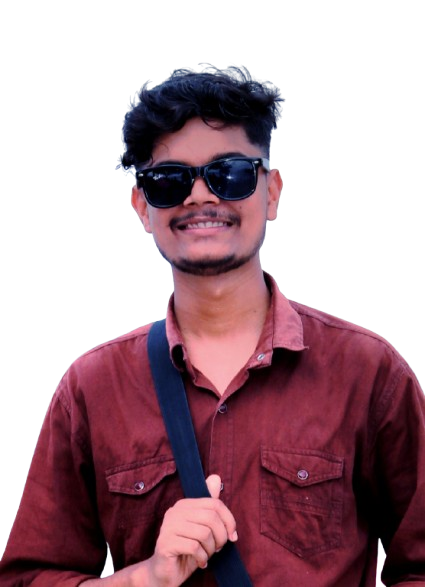
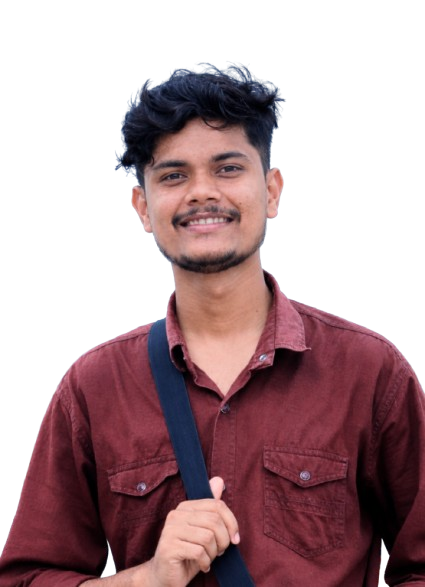
changes

diff --git a/src/components/Projects.jsx b/src/components/Projects.jsx
@@ -1,5 +1,9 @@
 import React, { useRef } from 'react'
 import project1 from '../assets/project1.png';
+import project2 from '../assets/project2.png';
+import project3 from '../assets/project3.png';
+import project4 from '../assets/project4.png';
+import project5 from '../assets/project5.png';
 import { ChevronLeft, ChevronRight, ExternalLink } from 'lucide-react';
 import { FaGithub } from 'react-icons/fa';
 
@@ -10,44 +14,57 @@ export default function Projects() {
         {
             id: 1,
             image: project1,
-            title: '3D Portfolio Website',
-            desc: 'Lorem ipsum dolor sit amet consectetur adipisicing elit. Minus doloribus rem voluptates nam recusandae cum unde,',
-            tags: ['React Js', 'Tailwind CSS', 'Framer Motion']
+            title: 'Hospital Management Website',
+            desc: "A Hospital Management System (HMS) is a centralized digital platform that integrates a hospital's clinical, administrative, financial, and operational functions into a single system",
+            tags: ['React Js', 'Tailwind CSS', 'Redus Toolkits', 'Node Js', 'Express Js', 'MongoDB', 'JavaScript'],
+            code: 'https://github.com/loyarabhishek92/Hospital',
+            demo: 'https://hospital-olive-nu.vercel.app/',
         },
         {
             id: 2,
-            image: project1,
-            title: '3D Portfolio Website',
-            desc: 'Lorem ipsum dolor sit amet consectetur adipisicing elit. Minus doloribus rem voluptates nam recusandae cum unde,',
-            tags: ['React Js', 'Tailwind CSS', 'Framer Motion']
-        },
-        {
-            id: 3,
-            image: project1,
-            title: '3D Portfolio Website',
-            desc: 'Lorem ipsum dolor sit amet consectetur adipisicing elit. Minus doloribus rem voluptates nam recusandae cum unde,',
-            tags: ['React Js', 'Tailwind CSS', 'Framer Motion']
-        },
-        {
-            id: 4,
-            image: project1,
-            title: '3D Portfolio Website',
-            desc: 'Lorem ipsum dolor sit amet consectetur adipisicing elit. Minus doloribus rem voluptates nam recusandae cum unde,',
-            tags: ['React Js', 'Tailwind CSS', 'Framer Motion']
+            image: project2,
+            title: 'E-Commerce Website',
+            desc: 'E-commerce (electronic commerce) is the buying and selling of goods, services, and data over the internet using digital devices.',
+            tags: ['React Js', 'Tailwind CSS', 'Redus Toolkits', 'Node Js', 'Express Js', 'MongoDB', 'JavaScript'],
+            code: 'https://github.com/loyarabhishek92/E-Commerce',
+            demo: 'https://e-commerce-cyan-two-40.vercel.app/',
         },
         {
             id: 5,
-            image: project1,
-            title: '3D Portfolio Website',
-            desc: 'Lorem ipsum dolor sit amet consectetur adipisicing elit. Minus doloribus rem voluptates nam recusandae cum unde,',
-            tags: ['React Js', 'Tailwind CSS', 'Framer Motion']
+            image: project5,
+            title: 'MealDB Colon Website',
+            desc: "Welcome to TheMealDB: An open, crowd-sourced database of recipes from around the world. We offer a free recipe API for anyone wanting to use it, with additional premium features if required.",
+            tags: ['React Js', 'Tailwind CSS', 'Framer Motion'],
+            code: 'https://github.com/loyarabhishek92/MealDBApp',
+            demo: 'https://meal-db-app-eight.vercel.app/',
         },
+        {
+            id: 3,
+            image: project3,
+            title: 'TODO App Website',
+            desc: 'A to-do list app is a digital tool that helps you organize daily tasks, set deadlines, and track productivity across your devices.',
+            tags: ['React Js', 'Tailwind CSS', 'Formik'],
+            code: 'https://github.com/loyarabhishek92/ToDoApp',
+            demo: 'https://to-do-app-puce-ten.vercel.app/',
+        },
+        {
+            id: 4,
+            image: project4,
+            title: 'Colon Website',
+            desc: 'Lorem ipsum dolor sit amet consectetur adipisicing elit. Minus doloribus rem voluptates nam recusandae cum unde,',
+            tags: ['HTML5', 'CSS3'],
+            code: 'https://github.com/loyarabhishek92/Projectforlive',
+            demo: 'https://colon-sand.vercel.app/',
+        },
+
         {
             id: 6,
             image: project1,
-            title: '3D Portfolio Website',
-            desc: 'Lorem ipsum dolor sit amet consectetur adipisicing elit. Minus doloribus rem voluptates nam recusandae cum unde,',
-            tags: ['React Js', 'Tailwind CSS', 'Framer Motion']
+           title: 'Hospital Management Website',
+            desc: "A Hospital Management System (HMS) is a centralized digital platform that integrates a hospital's clinical, administrative, financial, and operational functions into a single system",
+            tags: ['React Js', 'Tailwind CSS', 'Redus Toolkits', 'Node Js', 'Express Js', 'MongoDB', 'JavaScript'],
+            code: 'https://github.com/loyarabhishek92/Hospital',
+            demo: 'https://hospital-olive-nu.vercel.app/',
         },
     ]
     const infiniteProjects = [...projectsData, ...projectsData, ...projectsData];
@@ -87,72 +104,72 @@ export default function Projects() {
                     </div>
                     <div className='flex gap-4'>
                         <button
-                        onClick={() => handleScroll('left')}
-                        className='p-3 rounded-full border-2 transition-all duration-300 dark:border-zinc-200 border-gray-800 dark:text-white text-gray-800 hover:border-red-500 dark:hover:border-red-500 hover:bg-red-500/10 dark:hover:bg-red-500/10'>
+                            onClick={() => handleScroll('left')}
+                            className='p-3 rounded-full border-2 transition-all duration-300 dark:border-zinc-200 border-gray-800 dark:text-white text-gray-800 hover:border-red-500 dark:hover:border-red-500 hover:bg-red-500/10 dark:hover:bg-red-500/10'>
                             <ChevronLeft size={22} />
                         </button>
                         <button
-                        onClick={() => handleScroll('right')}
-                        className='p-3 rounded-full border-2 transition-all duration-300 dark:border-zinc-200 border-gray-800 dark:text-white text-gray-800 hover:border-red-500 dark:hover:border-red-500 hover:bg-red-500/10 dark:hover:bg-red-500/10'>
+                            onClick={() => handleScroll('right')}
+                            className='p-3 rounded-full border-2 transition-all duration-300 dark:border-zinc-200 border-gray-800 dark:text-white text-gray-800 hover:border-red-500 dark:hover:border-red-500 hover:bg-red-500/10 dark:hover:bg-red-500/10'>
                             <ChevronRight size={22} />
                         </button>
                     </div>
                 </div>
                 <div
-                ref={scrollRef}
-                className='flex gap-6 scrollbar-none snap-mandatory overflow-hidden w-full px-4'>
+                    ref={scrollRef}
+                    className='flex gap-6 scrollbar-none snap-mandatory overflow-hidden w-full px-4'>
                     {infiniteProjects.map((project, index) => (
                         <div
-                        key={`${project.id}-${index}`}
-                        className='w-full md:w-[calc(50%-12px)] lg:w-[calc(33.333%-16px)] shrink-0 snap-start group rounded-3xl overflow-hidden border-2 transition-all duration-300 dark:border-zinc-800/60 border-gray-100 dark:bg-zinc-900/40 bg-white hover:border-red-500/50 dark:hover:border-red-500/50 hover:shadow-[0_20px_40px_rgba(220,38,38,0.15)] flex flex-col'>
+                            key={`${project.id}-${index}`}
+                            className='w-full md:w-[calc(50%-12px)] lg:w-[calc(33.333%-16px)] shrink-0 snap-start group rounded-3xl overflow-hidden border-2 transition-all duration-300 dark:border-zinc-800/60 border-gray-100 dark:bg-zinc-900/40 bg-white hover:border-red-500/50 dark:hover:border-red-500/50 hover:shadow-[0_20px_40px_rgba(220,38,38,0.15)] flex flex-col'>
                             <div className='relative overflow-hidden aspect-video bg-gray-100 dark:bg-zinc-900'>
 
                                 <img src={project.image} alt={project.title} className='w-full h-full object-cover transition-transform duration-500 group-hover:scale-105' />
 
                                 <div className='absolute inset-0 bg-linear-to-t from-black/20 to-transparent opacity-0 group-hover:opacity-100 transition-opacity duration-300' />
-                                </div>
+                            </div>
 
-                                <div className='p-6 flex flex-col justify-between grow min-h-50'>
-                                    <div>
-                                        <h3 className='text-lg font-bold mb-2 dark:text-white text-gray-900 group-hover:text-red-500 dark:group-hover:text-red-400 transition-colors duration-300'>
-                                            {project.title}
-                                        </h3>
-                                        <p className='text-xs leading-relaxed mb-4 dark:text-gray-400 text-gray-600 line-clamp-2'>
-                                            {project.desc}
-                                        </p>
-                                    </div>
-                                    <div>
-                                        <div className='flex flex-wrap gap-1.5 mb-4'>
-                                            {project.tags.map((tag, i) => (
-                                                <span
+                            <div className='p-6 flex flex-col justify-between grow min-h-50'>
+                                <div>
+                                    <h3 className='text-lg font-bold mb-2 dark:text-white text-gray-900 group-hover:text-red-500 dark:group-hover:text-red-400 transition-colors duration-300'>
+                                        {project.title}
+                                    </h3>
+                                    <p className='text-xs leading-relaxed mb-4 dark:text-gray-400 text-gray-600 line-clamp-2'>
+                                        {project.desc}
+                                    </p>
+                                </div>
+                                <div>
+                                    <div className='flex flex-wrap gap-1.5 mb-4'>
+                                        {project.tags.map((tag, i) => (
+                                            <span
                                                 key={i}
                                                 className='text-[10px] font-medium px-2.5 py-0.5 rounded-full font-mono dark:bg-red-500/10 bg-red-500/5 dark:text-red-300 text-red-600'>
-                                                    {tag}
-                                                </span>
-                                            ))}
-                                        </div>
-                                        <div className='flex items-center gap-4 pt-2 border-t dark:border-zinc-800/80 border-gray-100'>
-                                        <a href="#"
-                                        target='_blank'
-                                        rel='noopener noreferrer'
-                                        className='inline-flex items-center gap-1.5 text-xs font-medium transition-colors duration-300 dark:text-gray-400 text-gray-600 dark:hover:text-white hover:text-black'>
+                                                {tag}
+                                            </span>
+                                        ))}
+                                    </div>
+                                    <div className='flex items-center gap-4 pt-2 border-t dark:border-zinc-800/80 border-gray-100'>
+                                        <a href={project.code}
+                                            target='_blank'
+                                            rel='noopener noreferrer'
+                                            className='inline-flex items-center gap-1.5 text-xs font-medium transition-colors duration-300 dark:text-gray-400 text-gray-600 dark:hover:text-white hover:text-black'>
                                             <FaGithub size={14} /> Code
                                         </a>
-                                         <a href="#"
-                                        target='_blank'
-                                        rel='noopener noreferrer'
-                                        className='inline-flex items-center gap-1.5 text-xs font-medium transition-colors duration-300 dark:text-gray-400 text-gray-600 dark:hover:text-white hover:text-black'>
+                                        <a href={project.demo}
+                                            target='_blank'
+                                            rel='noopener noreferrer'
+                                            className='inline-flex items-center gap-1.5 text-xs font-medium transition-colors duration-300 dark:text-gray-400 text-gray-600 dark:hover:text-white hover:text-black'>
                                             <ExternalLink size={14} /> Live Demo
                                         </a>
 
-                                        </div>
                                     </div>
-
                                 </div>
 
                             </div>
 
-                        
+                        </div>
+
+
                     ))}
 
                 </div>

diff --git a/src/components/Hero.jsx b/src/components/Hero.jsx
@@ -1,5 +1,5 @@
 import { FaFacebook, FaGithub, FaInstagram, FaTiktok, FaYoutube } from "react-icons/fa";
-import hero from '../assets/hero.png';
+import hero1 from '../assets/hero1.png';
 import cv from '../assets/cv.pdf';
 import { DownloadIcon, Mail } from "lucide-react";
 
@@ -23,17 +23,12 @@ export default function Hero() {
                             <div className="absolute inset-0 bg-linear-to-r from-red-600 to-red-800 rounded-full filter blur-2xl opacity-30 group-hover:opacity-50 transition-opacity duration-500" />
 
                             <div className="relative w-72 h-72 sm:w-80 sm:h-80 lg:w-96 lg:h-96">
-                                <img src={hero} alt="hero" className="w-full h-full object-cover rounded-full relative z-10 transform group-hover:scale-105 transition-transform duration-500" />
+                                <img src={hero1} alt="hero" className="w-full h-full object-cover rounded-full relative z-10 transform group-hover:scale-105 transition-transform duration-500" />
                                 <div className="absolute inset-0 border-2 border-red-500/30 rounded-full scale-110 group-hover:scale-125 transition-transform duration-500" />
 
                                 <div className="absolute inset-0 border-2 border-red-500/30 rounded-full scale-125 group-hover:scale-150 transition-transform duration-500" />
-
-
-
                             </div>
-
                         </div>
-
                     </div>
                     <div className="lg:w-3/5 w-full flex flex-col items-center lg:items-start text-center lg:text-left" data-aos="fade-left">
                         <div className="inline-flex items-center gap-2 px-4 py-1.5 rounded-full bg-red-500/20 mb-5">

diff --git a/src/components/Footer.jsx b/src/components/Footer.jsx
@@ -13,21 +13,24 @@ export default function Footer() {
             <p className='text-xs'>Frontend Developer</p>
         </div>
         <div className='flex gap-4'>
-            <a href="#"
+            <a href="https://github.com/loyarabhishek92"
+            target='_blank'
             className='hover:text-red-500 transition-colors'>
                 <FaGithub size={20} />
             </a>
-             <a href="#"
+             <a href="https://np.linkedin.com/"
+             target='_blank'
             className='hover:text-red-500 transition-colors'>
                 <FaLinkedin size={20} />
             </a>
-             <a href="#"
+             <a href="https://x.com/"
+             target='_blank'
             className='hover:text-red-500 transition-colors'>
                 <FaTwitter size={20} />
             </a>
         </div>
         <p className='text-xs flex items-center gap-1'>
-            {currentYear} Made with <FaHeart className='text-red-500' /> by <span className='font-semibold text-red-500'>DevMERNyar.coder</span>
+            {currentYear} Made with <FaHeart className='text-red-500' /> by <span className='font-semibold text-red-500'>Abhishek Raj Rauniyar</span>
         </p>
     </div>
     <div className='h-24'>

diff --git a/src/components/Certificates.jsx b/src/components/Certificates.jsx
@@ -1,4 +1,4 @@
-import React from 'react'
+
 import {motion} from 'framer-motion';
 import hero from '../assets/hero.png';
 import { Award, Calendar, ExternalLink } from 'lucide-react';
@@ -32,28 +32,28 @@ export default function Certificates() {
             title: 'MERN STACK',
             issuer: 'Mindrisers Institute of Technology',
             date: '2025',
-            credentialUrl: '#'
+            credentialUrl: 'https://mindrisers.com.np/'
         },
         {
             id: 2,
             title: 'AI with python',
             issuer: 'Mero coding',
             date: '2025',
-            credentialUrl: '#'
+            credentialUrl: 'https://merocodingclass.com/'
         },
         {
             id: 3,
             title: 'Diploma in Information Technology',
             issuer: 'Narayani Model Secondary School',
             date: '2023',
-            credentialUrl: '#'
+            credentialUrl: 'https://narayani.edu.np/'
         },
         {
             id: 4,
             title: 'Frontend Developer',
             issuer: 'Meta',
             date: '2010',
-            credentialUrl: '#'
+            credentialUrl: 'https://skillshikshya.com/'
         },
     ]
 

diff --git a/src/components/About.jsx b/src/components/About.jsx
@@ -22,6 +22,7 @@ export default function About() {
             icon: FaTiktok,
             label: 'TikTok',
             color: 'hover:text-purple-500 hover:border-purple-500/40',
+            link: 'https://www.tiktok.com/en/',
         },
         {
             icon: FaGithub,
@@ -33,6 +34,7 @@ export default function About() {
             icon: FaYoutube,
             label: 'Youtube',
             color: 'hover:text-red-500 hover:border-red-500/40',
+            link: 'https://www.youtube.com/',
         },
     ];
 

diff --git a/index.html b/index.html
@@ -2,7 +2,7 @@
 <html lang="en">
   <head>
     <meta charset="UTF-8" />
-    <link rel="icon" type="image/svg+xml" href="./src/assets/logo1.png" />
+    <link rel="icon" type="image/svg+xml" href="./src/assets/hero1.png" />
     <meta name="viewport" content="width=device-width, initial-scale=1.0" />
     <title>portfolio</title>
   </head>

diff --git a/src/components/Contact.jsx b/src/components/Contact.jsx
@@ -1,5 +1,4 @@
 import { Send } from 'lucide-react'
-import React from 'react'
 import hero from '../assets/hero.png';
 
 export default function Contact() {
